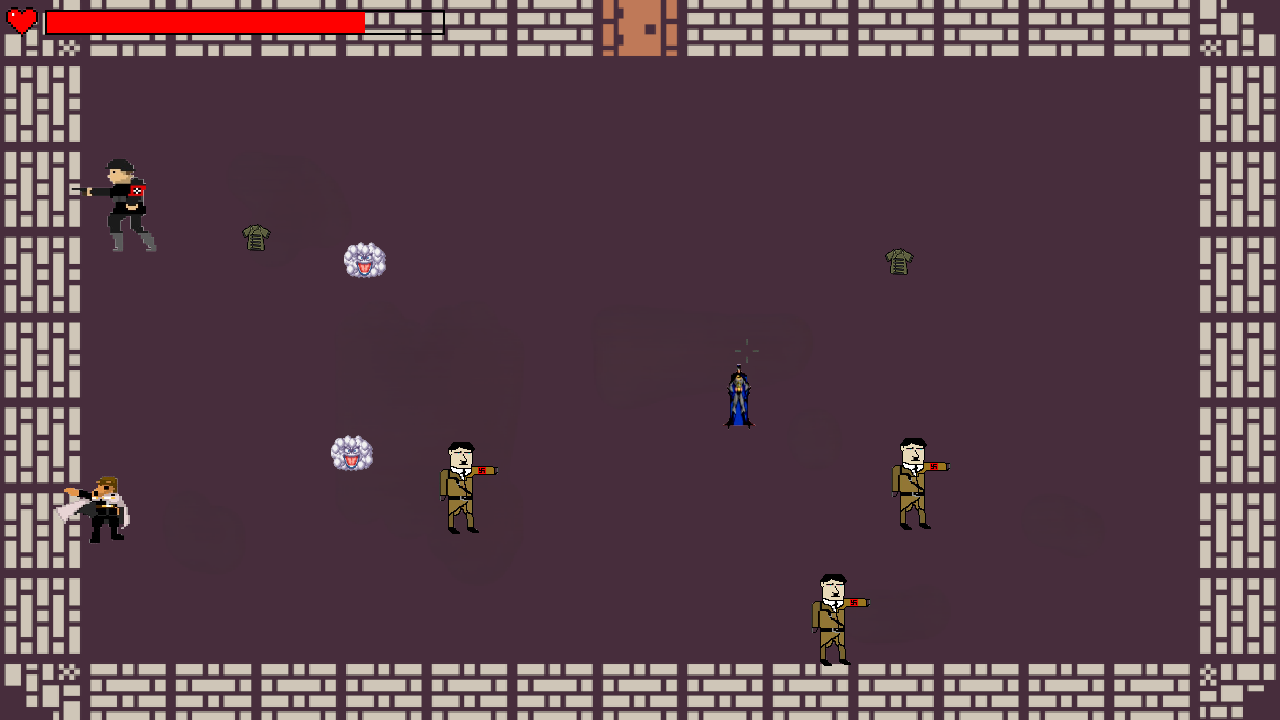
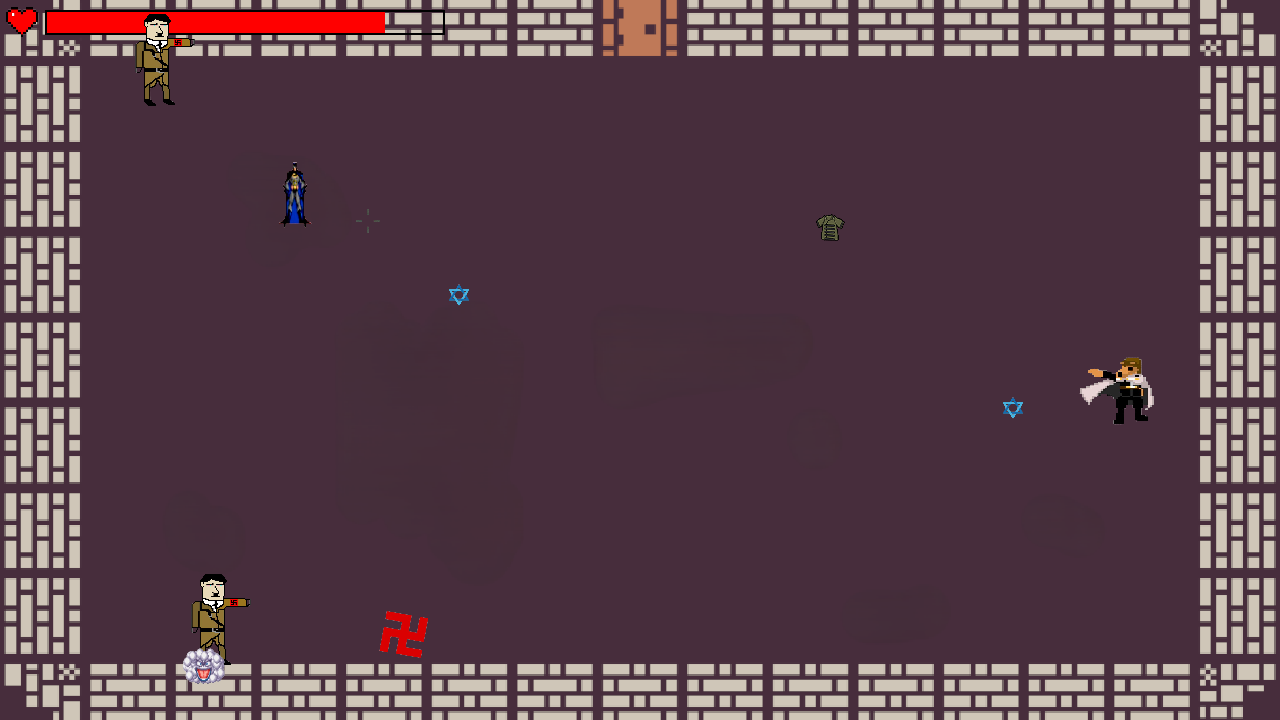
added weapons handling

diff --git a/Groupe 19/Binding Of Isaac/Weapons.py b/Groupe 19/Binding Of Isaac/Weapons.py
@@ -1,6 +1,9 @@
 import pygame
 import math
 
+screen = pygame.display.set_mode((1280, 720))
+
+
 class Weapon:
     def __init__(self, damage, cooldown):
         self.damage = damage
@@ -55,6 +58,10 @@ class Gun(Weapon):
             bullet = Bullet(hero.rect.center, mouse_pos, self.damage)
             self.bullets.append(bullet)
             self.last_fire_time = pygame.time.get_ticks()
+
+    def draw_gun(self, x, y):
+        pygame.transform.scale(pygame.image.load("assets/Graphics/Weapons/gun.png"), (15, 15))
+        screen.blit(pygame.image.load("assets/Graphics/Weapons/gun.png"), (x,y))
 
     def update(self, screen, mobs):  # Add screen as a parameter
         for bullet in self.bullets:

diff --git a/Groupe 19/Binding Of Isaac/Mob.py b/Groupe 19/Binding Of Isaac/Mob.py
@@ -58,6 +58,17 @@ class Mob(Boss):
             self.last_attack_time = current_time
 
     def kill(self, mobs):
+        random_number = 2
+        if random_number == 2:
+            second_random_number = 0
+            if second_random_number == 0:
+                from Weapons import Gun
+                Gun.draw_gun(screen, self.rect.x, self.rect.y)
+                print("j'ai dessiné un gun")
+            elif second_random_number == 1:
+                pass
+            elif second_random_number == 2:
+                pass
         if self in mobs:
             mobs.remove(self)
         super().kill()  # Call the kill method of the superclass
